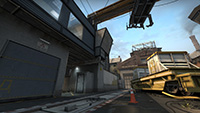
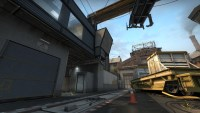
- don't need to preload the map images, just add an <img> element directly in the html - reduce the size of some map images

diff --git a/index.html b/index.html
@@ -33,21 +33,27 @@
             <ul id="PracticeMaps">
                 <li class="button" data-map_name="cache">
                     <div>cache</div>
+                    <img src="maps/cache/de_cache_200.jpg" />
                 </li>
                 <li class="button" data-map_name="dust2">
                     <div>dust2</div>
+                    <img src="maps/dust2/de_dust2_200.jpg" />
                 </li>
                 <li class="button" data-map_name="inferno">
                     <div>inferno</div>
+                    <img src="maps/inferno/de_inferno_200.jpg" />
                 </li>
                 <li class="button" data-map_name="mirage">
                     <div>mirage</div>
+                    <img src="maps/mirage/de_mirage_200.jpg" />
                 </li>
                 <li class="button" data-map_name="overpass">
                     <div>overpass</div>
+                    <img src="maps/overpass/de_overpass_200.jpg" />
                 </li>
                 <li class="button" data-map_name="train">
                     <div>train</div>
+                    <img src="maps/train/de_train_200.jpg" />
                 </li>
             </ul>
         </div>

diff --git a/scripts/main.js b/scripts/main.js
@@ -33,22 +33,11 @@ var manifest = {
     path: 'maps/',
     manifest: [
         { id: 'cache', src: 'cache/cache.svg' },
-        { id: 'cache_menu', src: 'cache/de_cache_200.jpg' },
-
         { id: 'dust2', src: 'dust2/dust2.svg' },
-        { id: 'dust2_menu', src: 'dust2/de_dust2_200.jpg' },
-
         { id: 'inferno', src: 'inferno/inferno.svg' },
-        { id: 'inferno_menu', src: 'inferno/de_inferno_200.jpg' },
-
         { id: 'mirage', src: 'mirage/mirage.svg' },
-        { id: 'mirage_menu', src: 'mirage/de_mirage_200.jpg' },
-
         { id: 'overpass', src: 'overpass/overpass.svg' },
-        { id: 'overpass_menu', src: 'overpass/de_overpass_200.jpg' },
-
-        { id: 'train', src: 'train/train.svg' },
-        { id: 'train_menu', src: 'train/de_train_200.jpg' }
+        { id: 'train', src: 'train/train.svg' }
     ]
 };
 

diff --git a/scripts/main_menu.js b/scripts/main_menu.js
@@ -58,8 +58,6 @@ for (a = 0 ; a < length ; a++)
         };
 
     var mapName = map.getAttribute( 'data-map_name' );
-
-    map.appendChild( G.PRELOAD.getResult( mapName + '_menu' ) );
     }
 };
 
